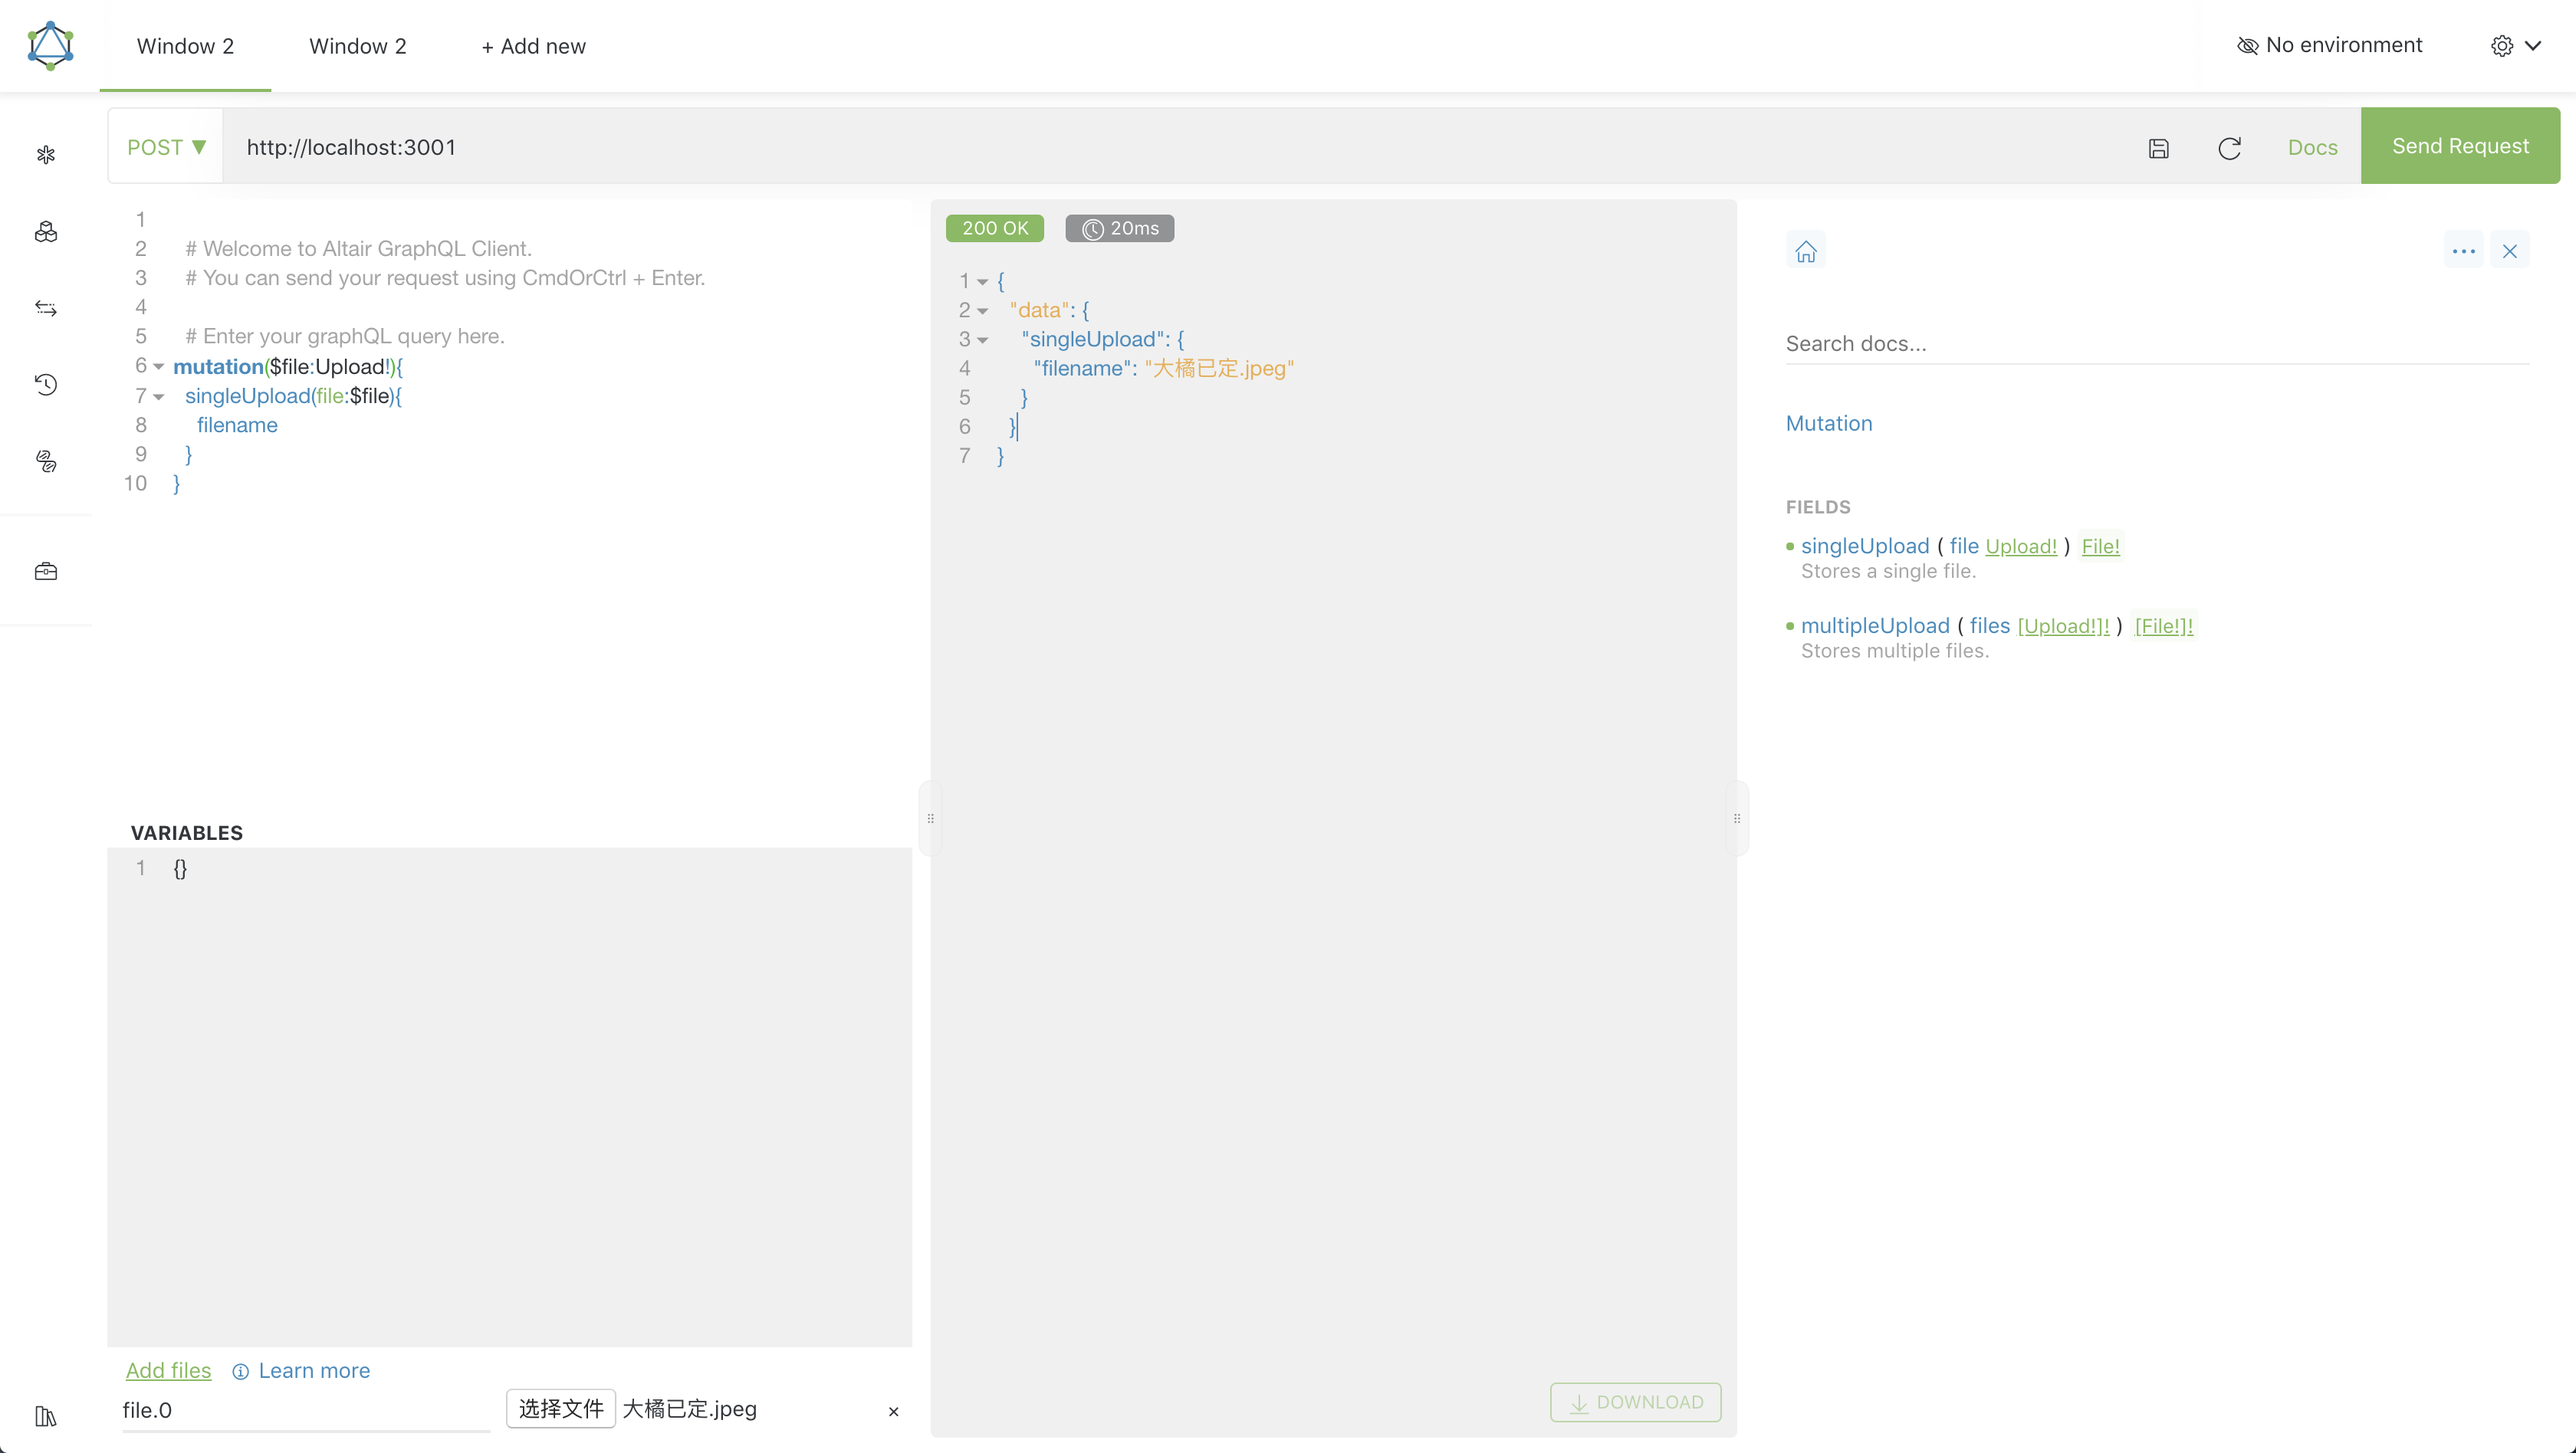
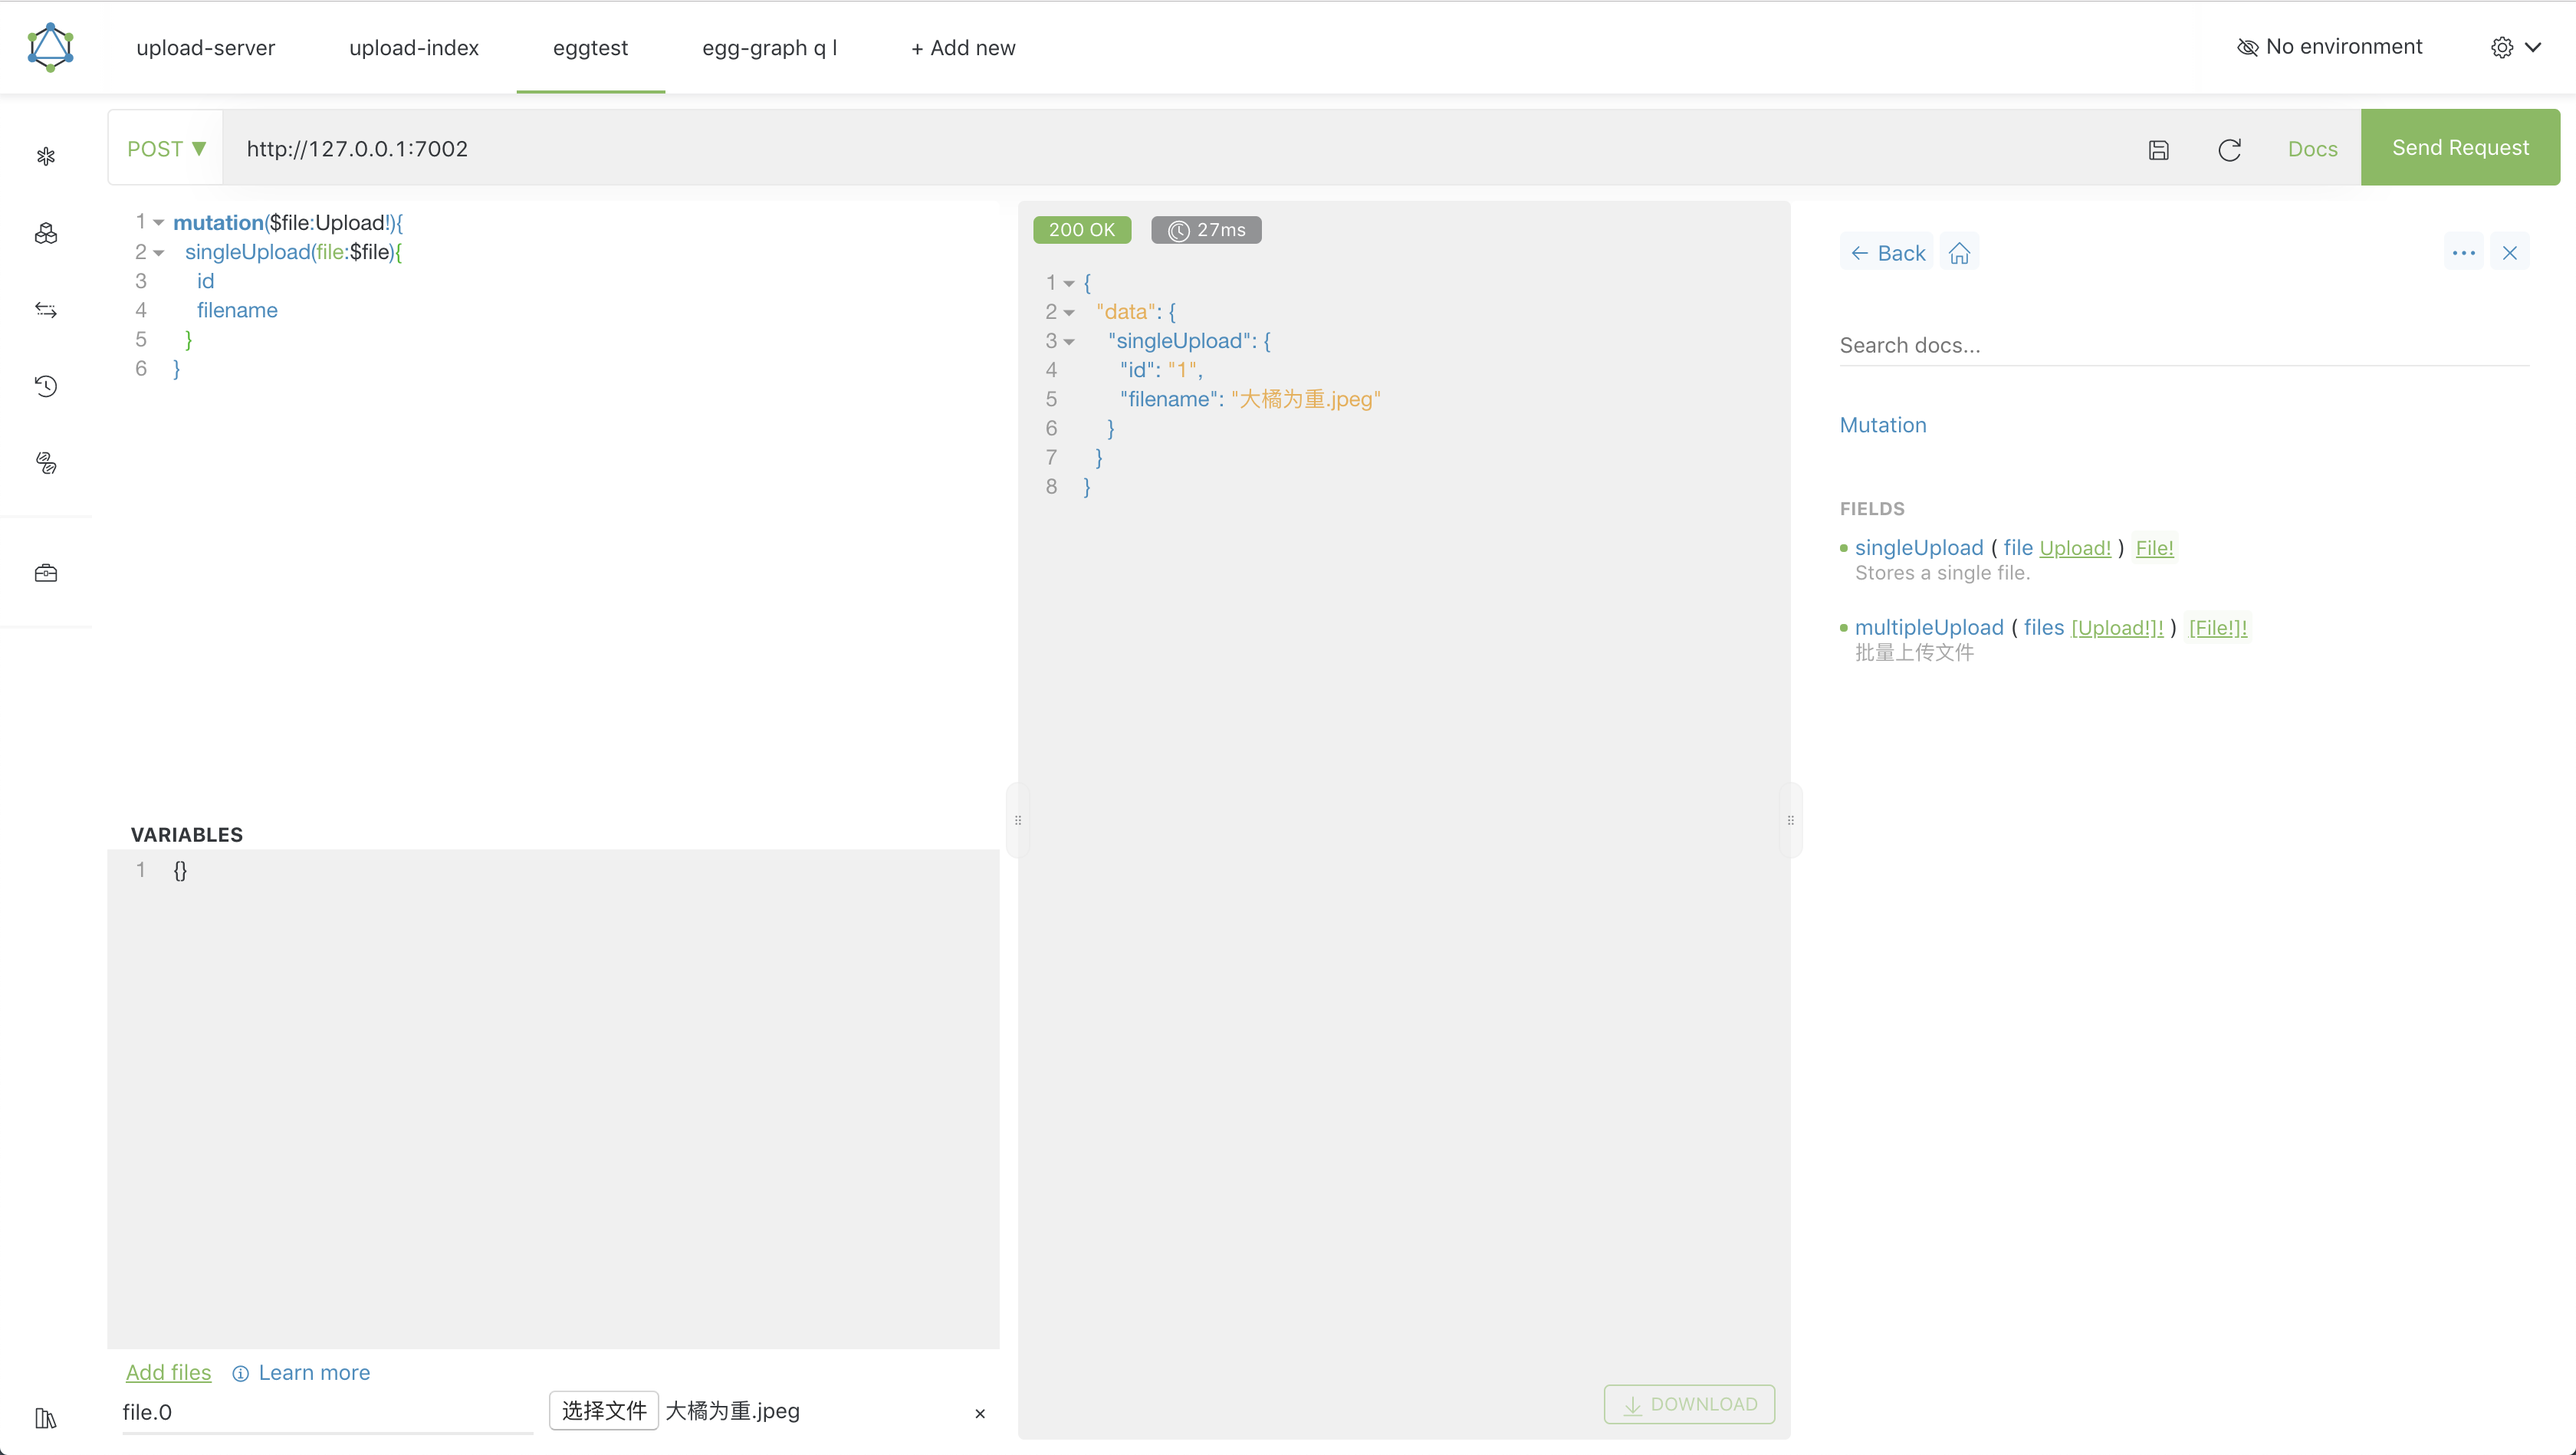
修改readme

diff --git a/README.md b/README.md
@@ -22,4 +22,8 @@ npm run dev
 使用Altair 工具测试上传文件，使用方式见官方文档，填写路径 127.0.0.1:7002 访问singleUpload 接口（因为是框架测试，所以只有该接口可以正常使用）。
 填写路径 127.0.0.1:7002/graphql 访问其他接口。
 
+127.0.0.1:7002
 ![use altair](/doc/use_altair.png)
+
+127.0.0.1:7002/graphql
+![use altair2](/doc/use_altair2.png)
